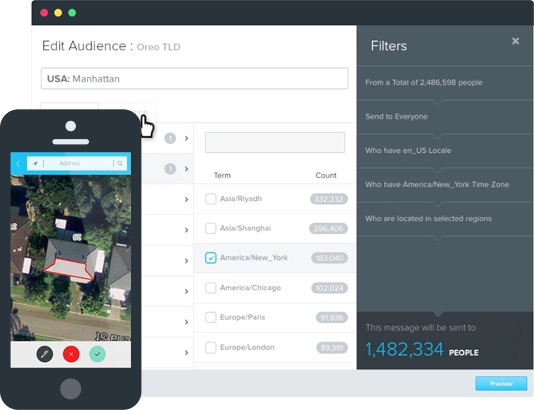
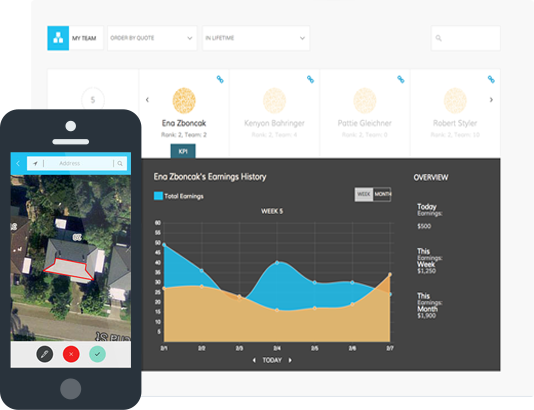
update to create-wealth images; update to kpi.js

diff --git a/app/assets/javascripts/kpi.js b/app/assets/javascripts/kpi.js
@@ -6,8 +6,10 @@ var position = 0;
 var page = 1;
 var now = new Date()
 now = setCalendar()
-var myChart = ""
+var myChart
+var myChart2;
 var ctx = ""
+var ctx2 = ""
 var timeScale;
 var metricsData = metricsData || {}
 var options = options || {}
@@ -15,20 +17,26 @@ var chartType = chartType || ""
 
 
 function initKPI(){
+  if(myChart2) myChart2.destroy
+  if(myChart) myChart.destroy
   displayTimeScale()
   randomizeData(6);
   setScale();
   randomizeOrders();
   populateContributors();
   checkPage()
-  var ctx = document.getElementById("metricsChart").getContext("2d");
+  ctx = document.getElementById("metricsChart").getContext("2d");
   if(chartType === "line") myChart = new Chart(ctx).Line(metricsData, options);
   if(chartType === "bar") myChart = new Chart(ctx).Bar(metricsData, options);
 }
 
 function initUserKPI(kpiType,chartStyle){
-  var myChart2;
-  if(myChart2) myChart2.destroy();
+  $('#metricsChart2').remove();
+  $('.canvas-box').append('<canvas id="metricsChart2" width="670" height="330" style="float:left;"></canvas>')
+  if(myChart2) myChart2.destroy
+  if(myChart) myChart.destroy
+  options = ""
+  metricsData = ""
   chartType = chartStyle
   if(kpiType === "orders") {
     metricsData = metricsData1
@@ -45,9 +53,8 @@ function initUserKPI(kpiType,chartStyle){
   displayTimeScale()
   randomizeData(6);
   setScale();
-  randomizeOrders();
   checkPage()
-  var ctx2 = document.getElementById("metricsChart2").getContext("2d");
+  ctx2 = document.getElementById("metricsChart2").getContext("2d");
   ctx2.canvas.width = 670
   ctx2.canvas.height = 330
   if(chartType === "line") myChart2 = new Chart(ctx2).Line(metricsData, options);
@@ -77,13 +84,28 @@ function rebuildChart(){
   if(scale === "week") timeScale = 6
   if(scale === "month") timeScale = numberOfDaysInMonth() - 1
   displayTimeScale()
-  myChart.destroy();
-  randomizeData(timeScale)
-  setScale()
-  ctx.canvas.width = 670
-  ctx.canvas.height = 330
-  if(chartType === "line") myChart = new Chart(ctx).Line(metricsData, options);
-  if(chartType === "bar") myChart = new Chart(ctx).Bar(metricsData, options);
+  if(ctx2) {
+    if(myChart)myChart.destroy();
+    myChart2.destroy();
+    randomizeData(timeScale)
+    setScale()
+    ctx2.canvas.width = 670
+    ctx2.canvas.height = 330
+    if(chartType === "line") myChart = new Chart(ctx2).Line(metricsData, options);
+    if(chartType === "bar") myChart = new Chart(ctx2).Bar(metricsData, options);
+  }
+  if(ctx) {
+    if(myChart2)myChart2.destroy();
+    myChart.destroy();
+    randomizeData(timeScale)
+    setScale()
+    ctx.canvas.width = 670
+    ctx.canvas.height = 330
+    if(chartType === "line") myChart = new Chart(ctx).Line(metricsData, options);
+    if(chartType === "bar") myChart = new Chart(ctx).Bar(metricsData, options);
+  }
+  
+  
 }
 
 function populateContributors() {

diff --git a/app/assets/templates/shared/left-menu.html b/app/assets/templates/shared/left-menu.html
@@ -10,16 +10,16 @@
     <div class="second-menu">
       <li class="sub-parent"><a ng-click="showMenuLearnMore = !showMenuLearnMore">Learn More</a></li>
       <div class="sub-menu" ng-if="showMenuLearnMore">
-        <li><a ng-href="#/why-solar">Why solar?</a></li>
+        <li><a ng-href="#/why-solar" ng-class="{'active': isMenuLinkActive('/why-solar')}">Why solar?</a></li>
         <!-- <li><a ng-href="#/why-us">Why us?</a></li> -->
         <!-- <li><a ng-href="#/why-direct-selling">Why direct selling?</a></li> -->
-        <li><a ng-href="#/why-you">Why you?</a></li>
+        <li><a ng-href="#/why-you" ng-class="{'active': isMenuLinkActive('/why-you')}">Why you?</a></li>
       </div>
       <ul>
-      <li><a ng-href="#/our-origin">Our Origin</a></li>
+      <li><a ng-href="#/our-origin" ng-class="{'active': isMenuLinkActive('/our-origin')}">Our Origin</a></li>
       <!-- <li><a ng-href="#/our-team">Our Team</a></li> -->
-      <li><a ng-href="#/customer-faq">Customer FAQ</a></li>
-      <li><a ng-href="#/advocate-faq">Advocate FAQ</a></li>
+      <li><a ng-href="#/customer-faq" ng-class="{'active': isMenuLinkActive('/customer-faq')}">Customer FAQ</a></li>
+      <li><a ng-href="#/advocate-faq" ng-class="{'active': isMenuLinkActive('/advocate-faq')}">Advocate FAQ</a></li>
       </ul>
     <div class="second-menu">
   </ul>

diff --git a/public/templates/drilldowns/impact_metrics/_kpi_conversion_details.handlebars.html b/public/templates/drilldowns/impact_metrics/_kpi_conversion_details.handlebars.html
@@ -115,10 +115,16 @@
 
   function randomizeData(length) {
   metricsData.datasets[0].data = []
-  metricsData.datasets[1].data = []
-  for (i = 0; i <= length; i++) {
-    metricsData.datasets[0].data.push(Math.floor(Math.random() * 30 + 20));
-    metricsData.datasets[1].data.push(Math.floor(Math.random() * 20 + 15));
+  if (metricsData.datasets.length < 2) {
+   for (i = 0; i <= length; i++) {
+     metricsData.datasets[0].data.push(Math.floor(Math.random() * 30 + 20));
+   }
+  } else {
+   metricsData.datasets[1].data = []
+   for (i = 0; i <= length; i++) {
+     metricsData.datasets[0].data.push(Math.floor(Math.random() * 30 + 20));
+     metricsData.datasets[1].data.push(Math.floor(Math.random() * 20 + 15));
+   }
   }
 }
 

diff --git a/public/templates/_kpi_conversion_thumbnail.handlebars.html b/public/templates/_kpi_conversion_thumbnail.handlebars.html
@@ -33,9 +33,9 @@
           </div>
         </div> <!-- end legend-box -->
         <div class="week-span"></div>
-
-        <canvas id="metricsChart2" width="670" height="330" style="float:left;"></canvas>
-
+        <div class="canvas-box">
+          <canvas id="metricsChart2" width="670" height="330" style="float:left;"></canvas>
+        </div>
         <div class="time_unit_nav">
           <i class="fa fa-caret-left back"></i>
           <span class="current">TODAY</span>

diff --git a/public/templates/_team_thumbnail.handlebars.html b/public/templates/_team_thumbnail.handlebars.html
@@ -25,7 +25,7 @@
 </div>  
     {{#each this.actions}}
       {{#compare this "place" operator="=="}}
-    <i class="js-link_user fa fa-link"></i>
+    {{!-- <i class="js-link_user fa fa-link"></i> --}}
     {{!-- <a><span class="js-link_user" style="font-size:0.7em">ASSIGN</span></a> --}}
       {{/compare}}
     {{/each}}

diff --git a/app/assets/stylesheets/new/main.scss b/app/assets/stylesheets/new/main.scss
@@ -149,3 +149,13 @@ input {
 .uppercase {
   text-transform: uppercase;
 }
+
+.sun-sign-up-page {
+  .sun-fixed-bg {
+    height:40%
+  }
+
+  .sun-scrolling-bg {
+    margin-top:100px;
+  }
+}

diff --git a/app/assets/stylesheets/new/faq.scss b/app/assets/stylesheets/new/faq.scss
@@ -23,6 +23,10 @@
     font-size: 1.5em;
   }
 
+  footer {
+    bottom:0;
+  }
+
   .sun-accordion {
     list-style-position: outside;
     margin-bottom:100px;

diff --git a/public/templates/_info_thumbnail.handlebars.html b/public/templates/_info_thumbnail.handlebars.html
@@ -98,7 +98,7 @@
     font-size:4em;
   }
 
-  .js-thumbnail .fa-phone {
+  .team_thumbnail .fa-phone {
     margin-top:21px;
     font-size:4em;
   }
